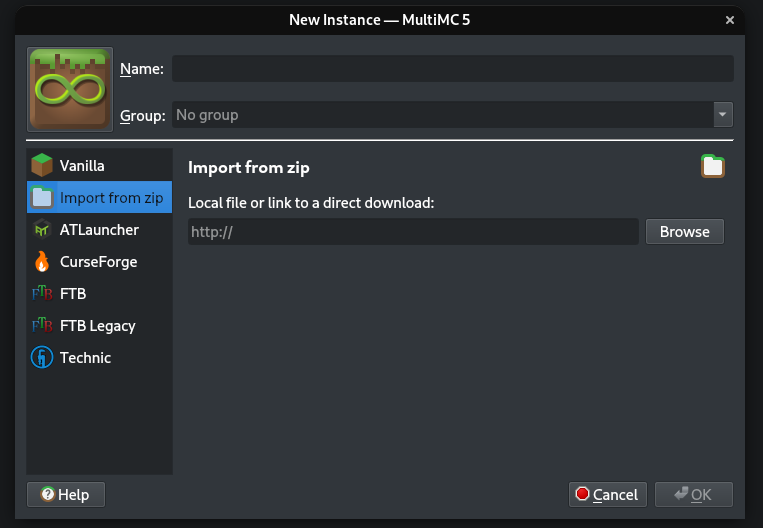
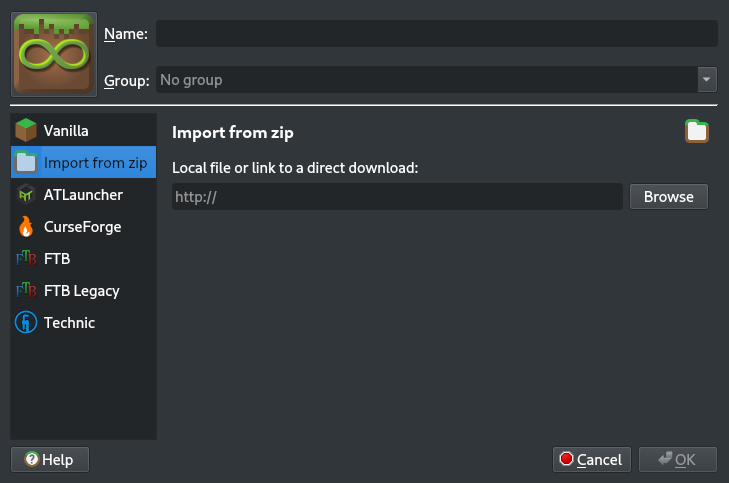
update image files

Changed region(s): [[0.0, 0.0, 1.0, 1.0]]

diff --git a/index.html b/index.html
@@ -11,6 +11,8 @@
 <p>This is an easy to install MultiMC modpack including many QOL and optimization mods</p>
 
 <p>Download Link: <a href="https://github.com/leathium/OptimizedPack/raw/main/modpack/OptimizedPack.zip">Click Here</a></p>
+&nbsp;
+<img src="https://leathium.github.io/OptimizedPack/Images/Import.png" alt="MultiMC import tab">
 
 </body>
 </html>
